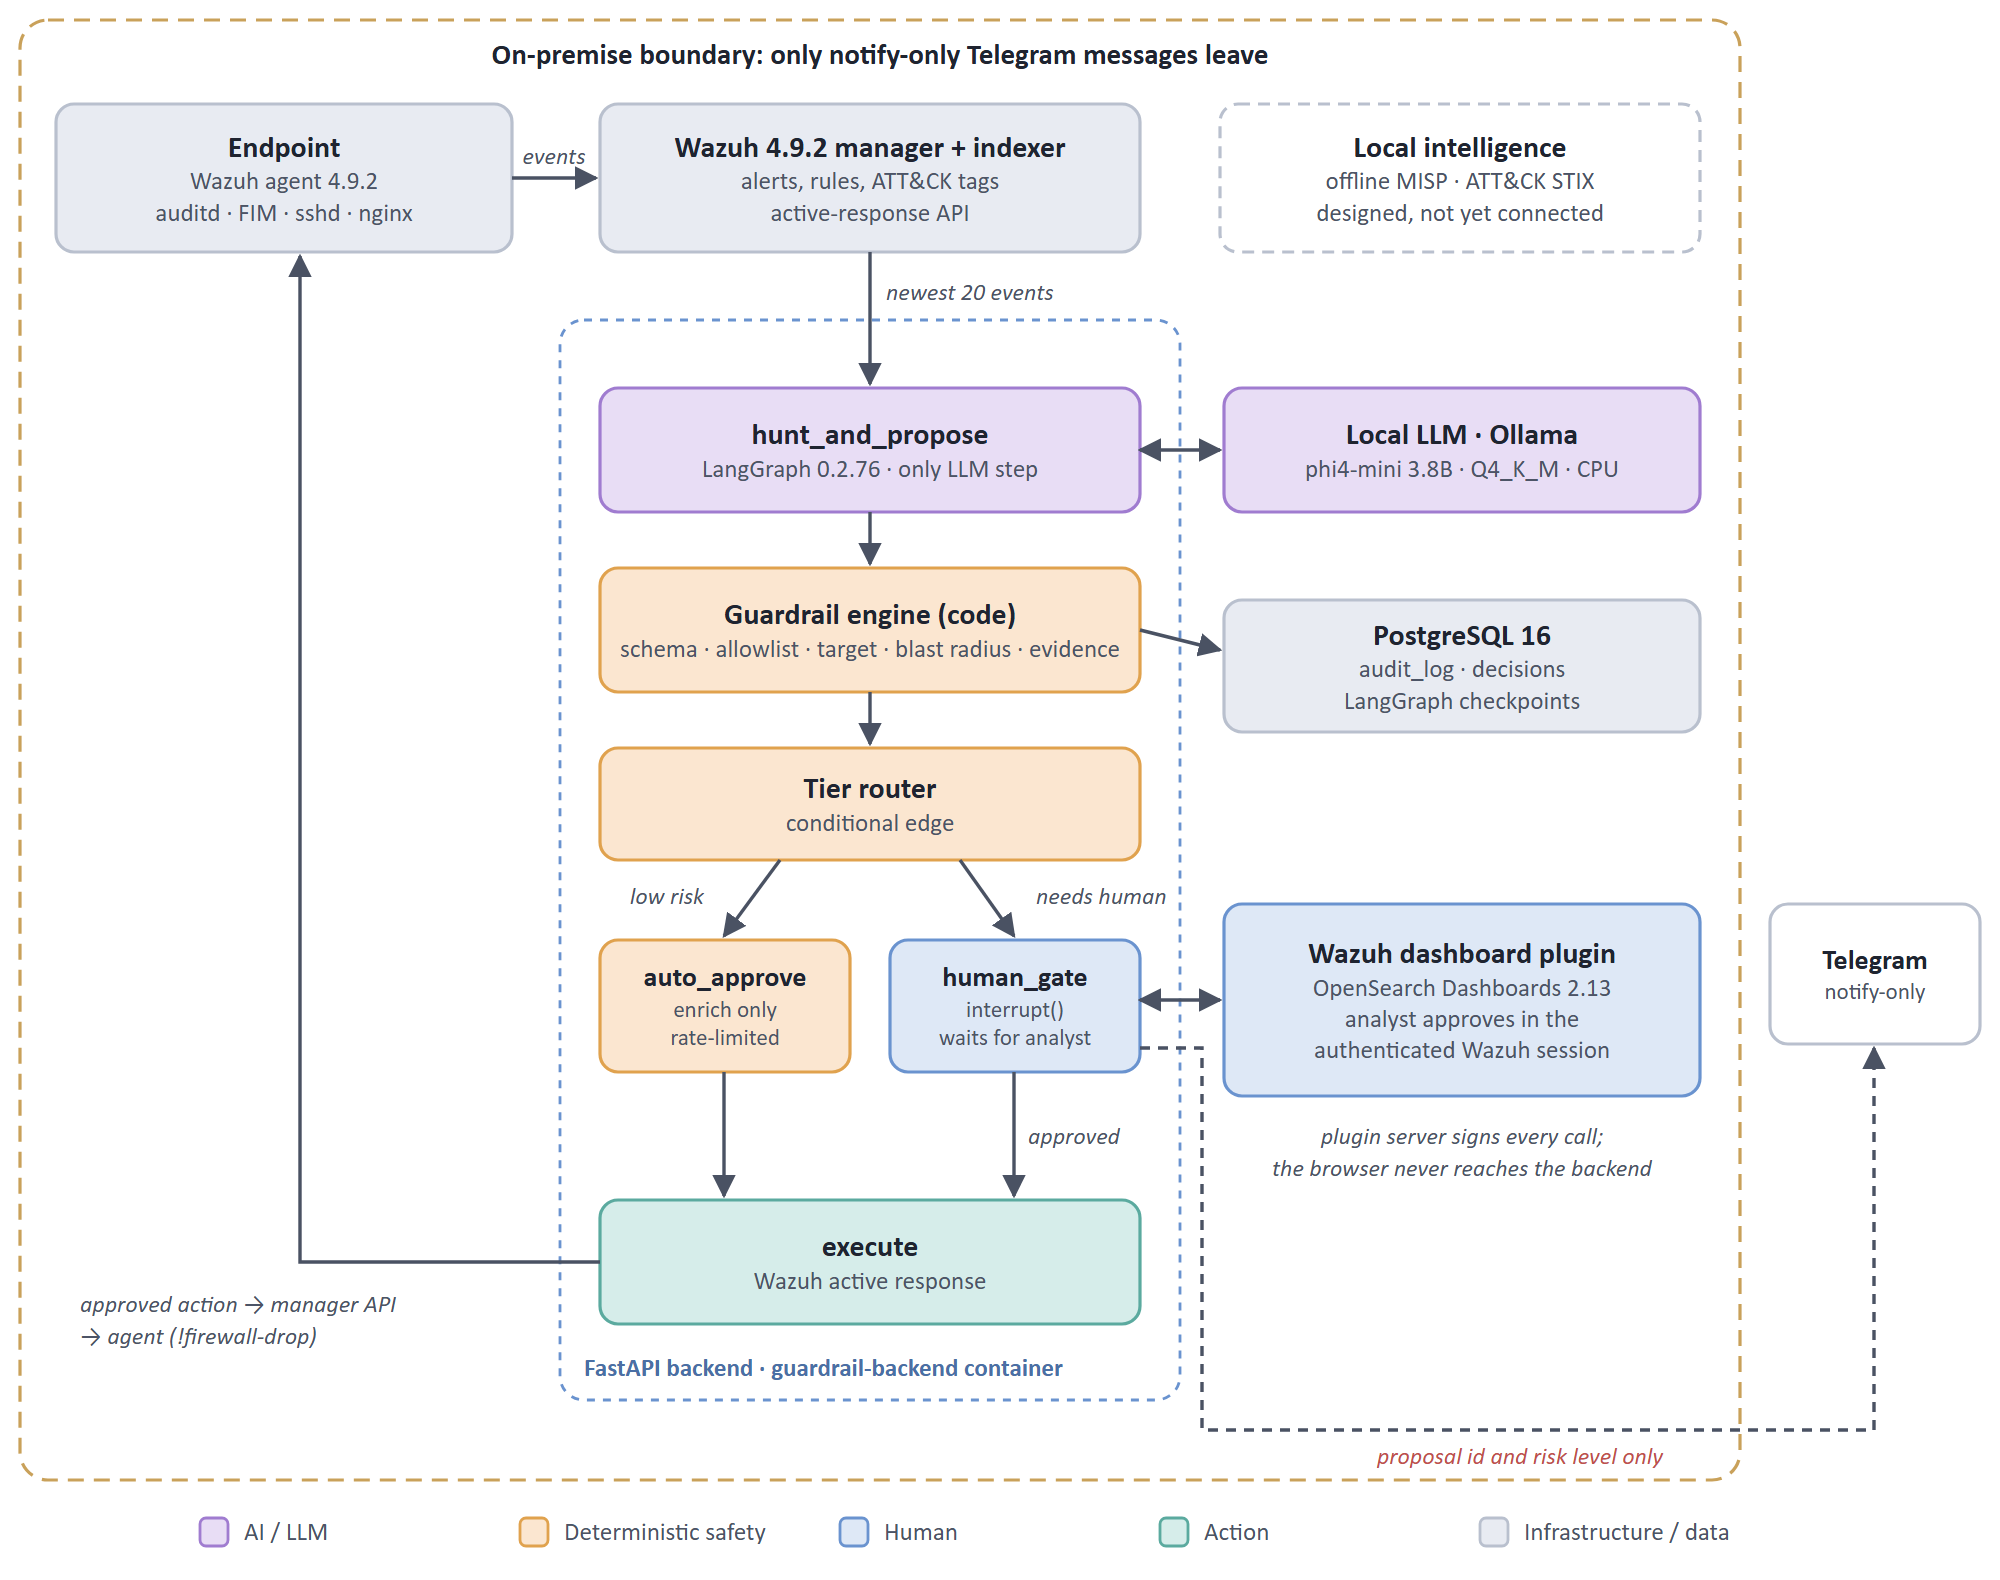
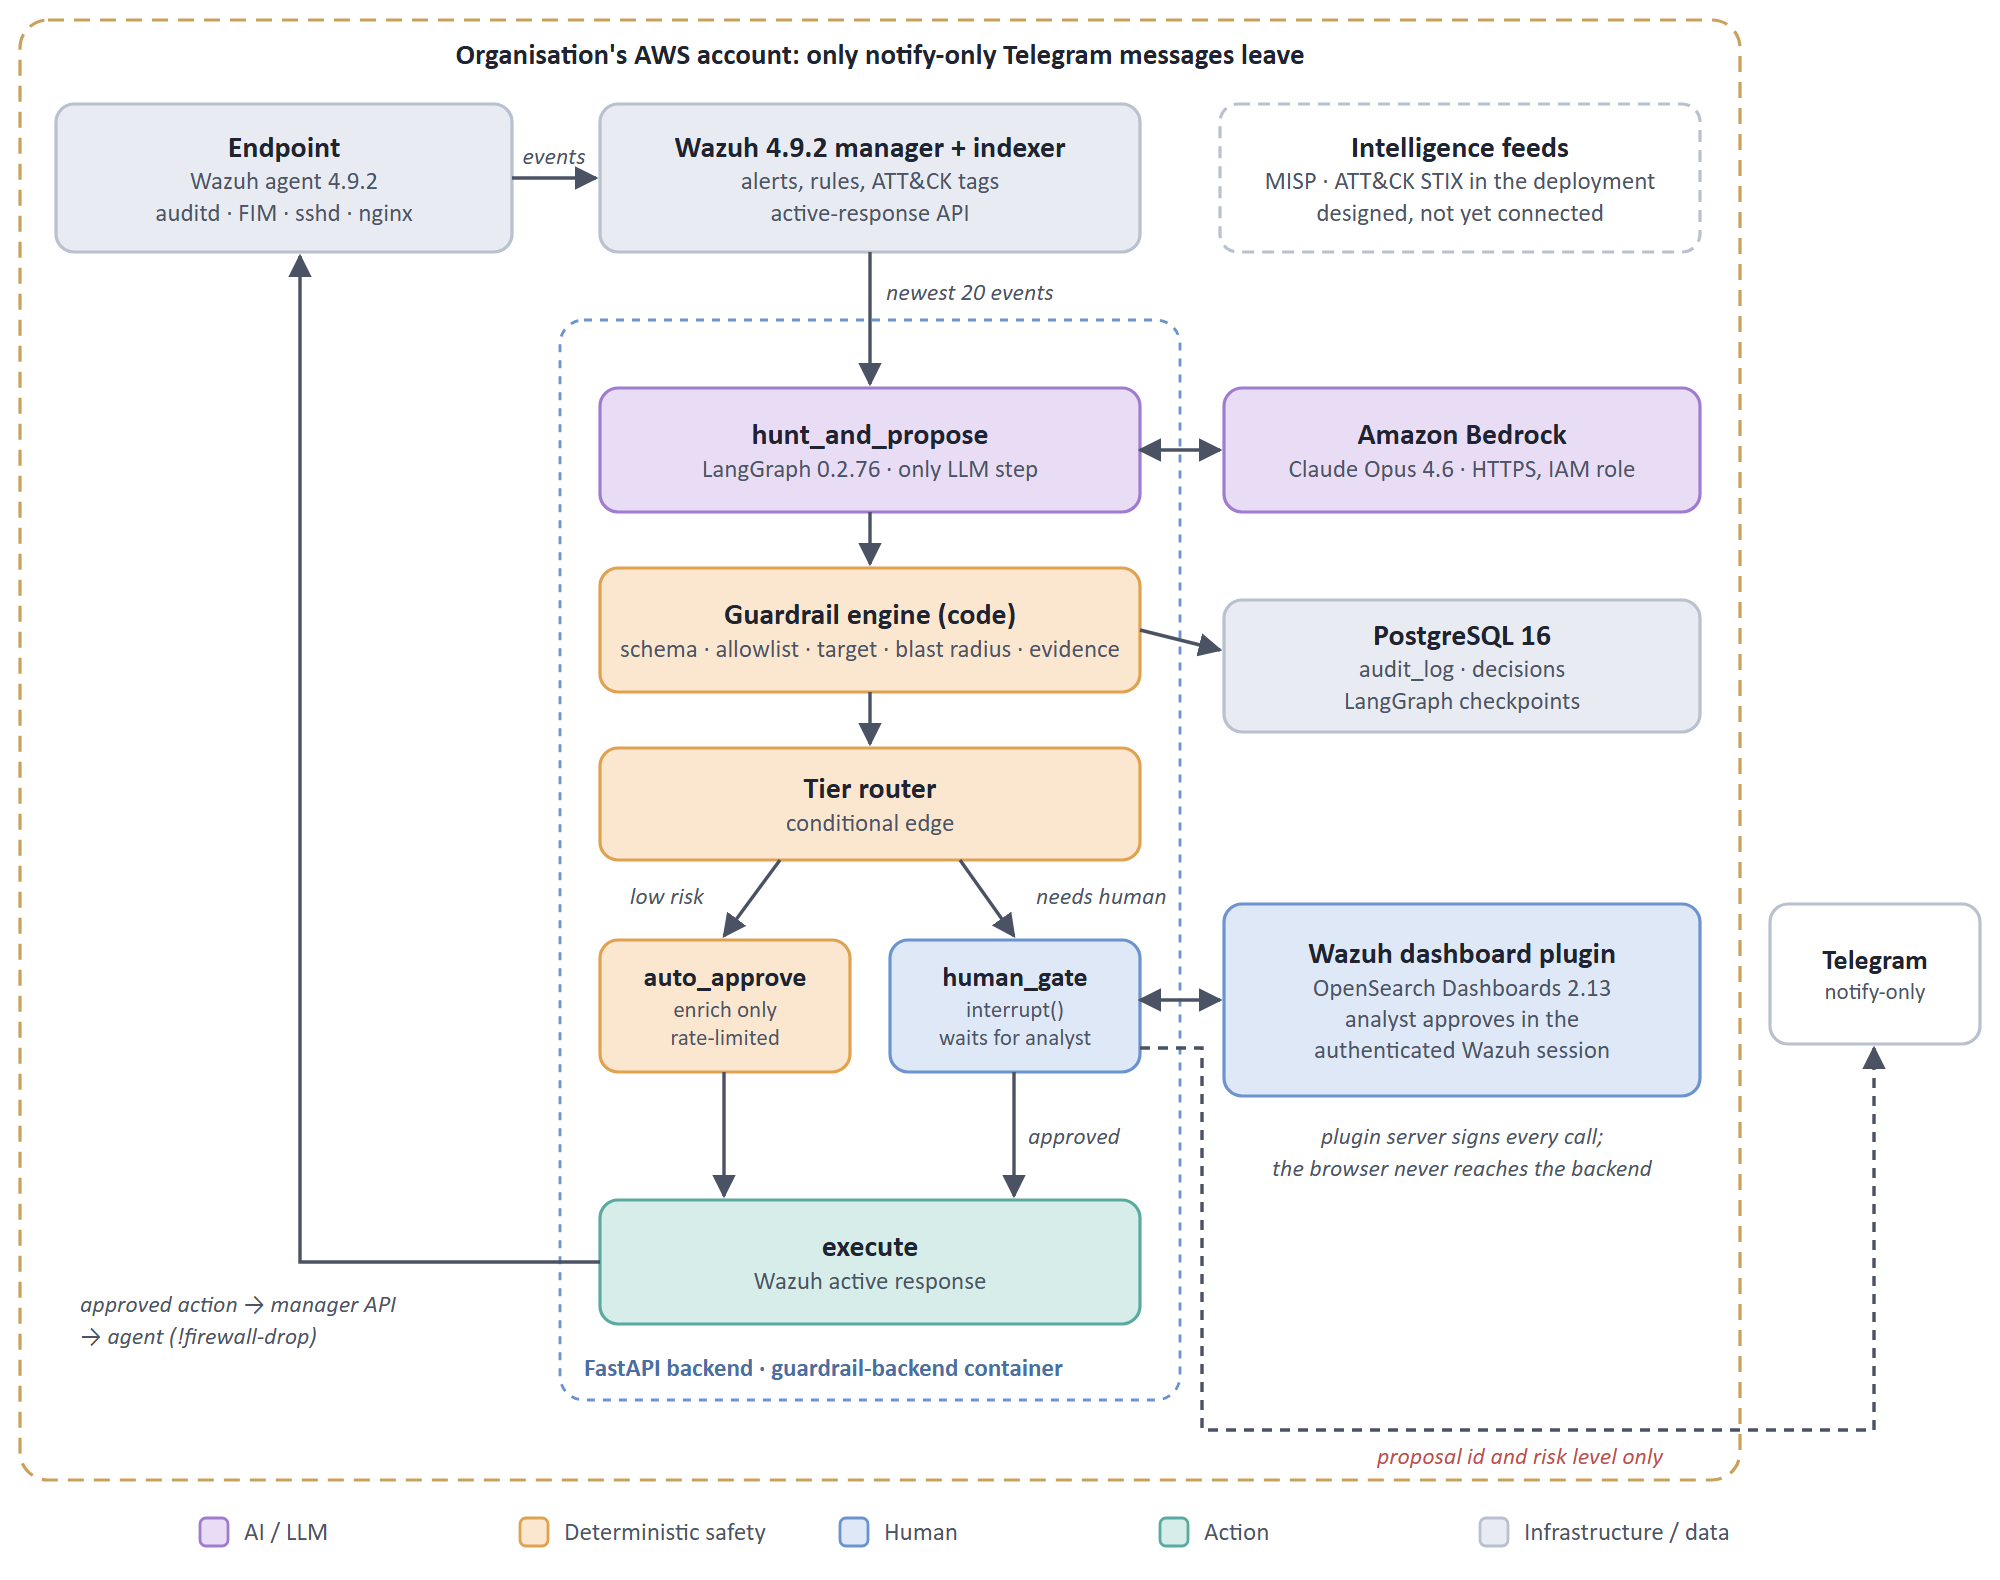
docs: figures 3.2, 3.5 and 3.6 show the Bedrock deployment
The thesis now presents the framework as a cloud design on AWS with
Claude Opus 4.6 on Bedrock; the diagrams drew Ollama on the host and an
on-premise boundary.

Changed region(s): [[0.217, 0.031, 0.651, 0.062], [0.651, 0.2481, 0.806, 0.3101], [0.62, 0.062, 0.806, 0.1241]]

diff --git a/docs/figures/make_figures.py b/docs/figures/make_figures.py
@@ -124,10 +124,10 @@ def fig_3_1() -> Fig:
 
 def fig_3_2() -> Fig:
     f = Fig(1000, 790)
-    f.frame(10, 10, 860, 730, "On-premise boundary: only notify-only Telegram messages leave")
+    f.frame(10, 10, 860, 730, "Organisation's AWS account: only notify-only Telegram messages leave")
     f.box(28, 52, 228, 74, "Endpoint", ["Wazuh agent 4.9.2", "auditd · FIM · sshd · nginx"], "infra")
     f.box(300, 52, 270, 74, "Wazuh 4.9.2 manager + indexer", ["alerts, rules, ATT&CK tags", "active-response API"], "infra")
-    f.box(610, 52, 240, 74, "Local intelligence", ["offline MISP · ATT&CK STIX", "designed, not yet connected"], "plain", dashed=True)
+    f.box(610, 52, 240, 74, "Intelligence feeds", ["MISP · ATT&CK STIX in the deployment", "designed, not yet connected"], "plain", dashed=True)
     f.arrow([(256, 89), (298, 89)], "events", at=(277, 82))
     # backend container
     f.parts.append('<rect x="280" y="160" width="310" height="540" rx="12" fill="none" '
@@ -147,7 +147,7 @@ def fig_3_2() -> Fig:
     f.arrow([(362, 536), (362, 598)])
     f.arrow([(507, 536), (507, 598)], "approved", at=(514, 572), lanchor="start")
     # right column
-    f.box(612, 194, 238, 62, "Local LLM · Ollama", ["phi4-mini 3.8B · Q4_K_M · CPU"], "ai")
+    f.box(612, 194, 238, 62, "Amazon Bedrock", ["Claude Opus 4.6 · HTTPS, IAM role"], "ai")
     f.arrow([(570, 225), (610, 225)], both=True)
     f.box(612, 300, 238, 66, "PostgreSQL 16", ["audit_log · decisions", "LangGraph checkpoints"], "infra")
     f.arrow([(570, 315), (610, 325)])
@@ -159,7 +159,7 @@ def fig_3_2() -> Fig:
     f.arrow([(300, 631), (150, 631), (150, 128)])
     f.text(40, 656, "approved action → manager API", 12, 400, MUTED, anchor="start", italic=True)
     f.text(40, 672, "→ agent (!firewall-drop)", 12, 400, MUTED, anchor="start", italic=True)
-    # telegram, outside the boundary
+    # telegram, outside AWS
     f.box(885, 452, 105, 70, "Telegram", ["notify-only"], "plain", size=14)
     f.arrow([(570, 524), (601, 524), (601, 715), (937, 715), (937, 524)], dashed=True)
     f.text(760, 732, "proposal id and risk level only", 12, 400, RED, italic=True)
@@ -220,7 +220,7 @@ def fig_3_4() -> Fig:
 
 
 def fig_3_5() -> Fig:
-    lanes = ["Analyst (browser)", "Plugin server", "FastAPI backend", "Ollama phi4-mini",
+    lanes = ["Analyst (browser)", "Plugin server", "FastAPI backend", "Bedrock Opus 4.6",
              "PostgreSQL", "Wazuh mgr → agent"]
     kinds = ["human", "human", "safety", "ai", "infra", "action"]
     f = Fig(1000, 620)
@@ -261,7 +261,7 @@ def fig_3_5() -> Fig:
 
 
 def fig_3_6() -> Fig:
-    f = Fig(1000, 600)
+    f = Fig(1000, 690)
     f.frame(10, 10, 980, 540, "AWS VPC, us-east-1 (WazuhLabStack): no inbound access from the internet; administration over SSM only")
     # host
     f.parts.append('<rect x="30" y="48" width="600" height="485" rx="12" fill="#F7F8FB" stroke="#B9C0CE" stroke-width="1.5"/>')
@@ -275,8 +275,13 @@ def fig_3_6() -> Fig:
     f.text(474, 104, "Docker Compose · application tier", 12.5, 700, "#4A6FA5")
     f.box(352, 116, 244, 74, "guardrail-backend", ["FastAPI 0.115 · LangGraph 0.2.76", "guardrails · 127.0.0.1:8000"], "safety", size=14)
     f.box(352, 204, 244, 74, "guardrail-postgres", ["PostgreSQL 16 + pgvector", "audit · checkpoints"], "infra", size=14)
-    f.box(336, 322, 276, 72, "Ollama (systemd, on the host)", ["phi4-mini Q4_K_M · CPU only", "backend reaches it at host.docker.internal"], "ai", size=14)
-    f.arrow([(596, 153), (622, 153), (622, 358), (614, 358)], both=True)
+    f.box(336, 322, 276, 72, "Instance IAM role", ["bedrock:InvokeModel on the", "Opus 4.6 inference profile only"], "safety", size=14)
+    f.arrow([(596, 153), (622, 153), (622, 358), (614, 358)])
+    # Bedrock is an AWS-managed service in the same account, outside the VPC
+    f.box(336, 572, 276, 66, "Amazon Bedrock", ["Claude Opus 4.6 · US inference profile", "same AWS account, outside the VPC"], "ai", size=14)
+    f.arrow([(612, 380), (621, 380), (621, 605), (614, 605)])
+    f.text(632, 600, "HTTPS, signed", 12, 400, MUTED, anchor="start", italic=True)
+    f.text(632, 616, "with the role", 12, 400, MUTED, anchor="start", italic=True)
     f.arrow([(318, 150), (350, 150)], both=True)
     f.text(334, 384, "", 1)
     f.box(48, 416, 564, 48, "8 GB swap · all service ports bound to 127.0.0.1", ["created by setup.sh"], "plain", size=14)
@@ -291,7 +296,7 @@ def fig_3_6() -> Fig:
     f.arrow([(825, 298), (825, 220)], "SSH 22 · HTTP 80", at=(835, 262), lanchor="start")
     f.box(680, 440, 290, 80, "Analyst workstation", ["SSM port-forward → dashboard 443", "(no public port)"], "human", size=14)
     f.arrow([(678, 480), (636, 480), (636, 405), (183, 405), (183, 362)], dashed=True)
-    f.legend(578)
+    f.legend(668)
     return f
 
 
